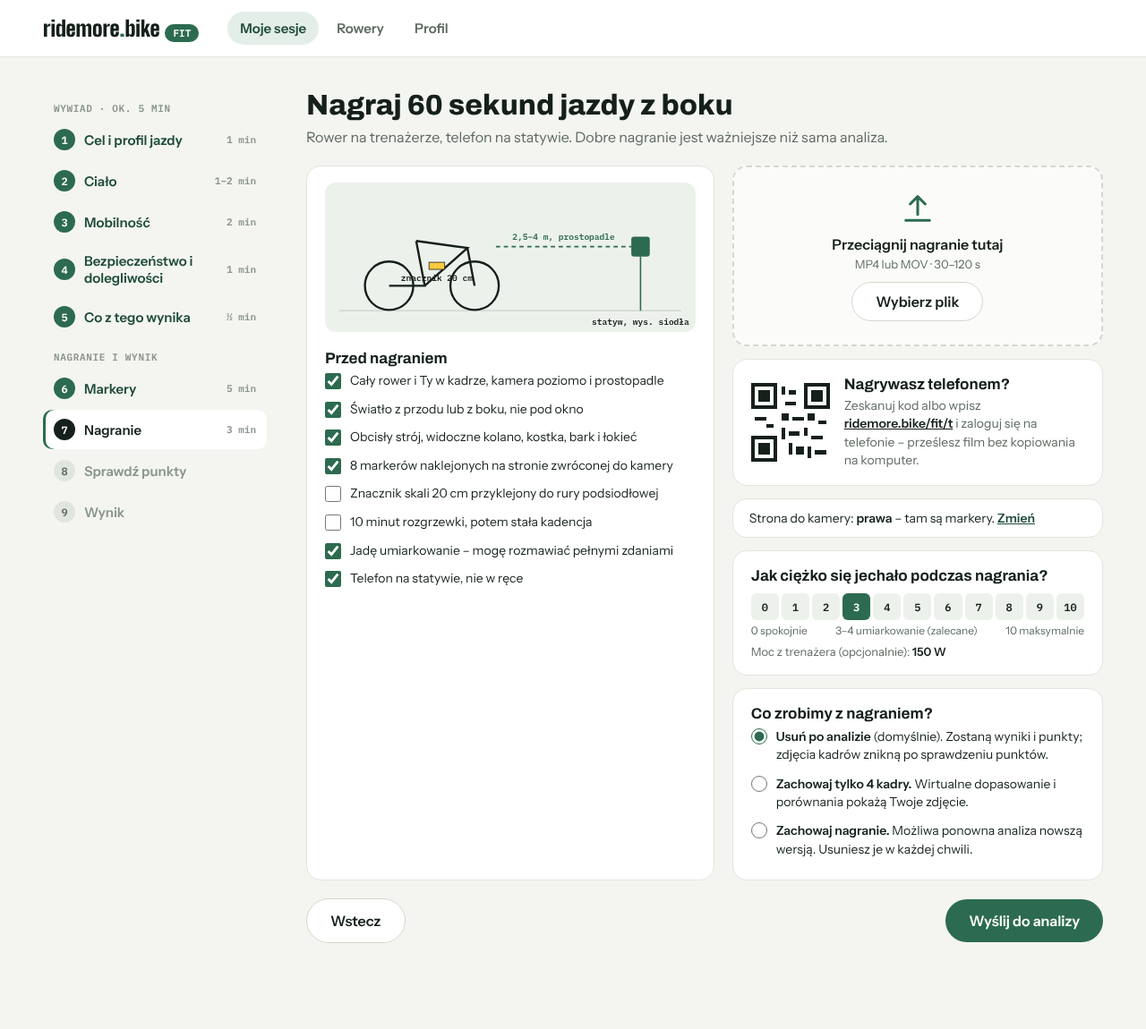
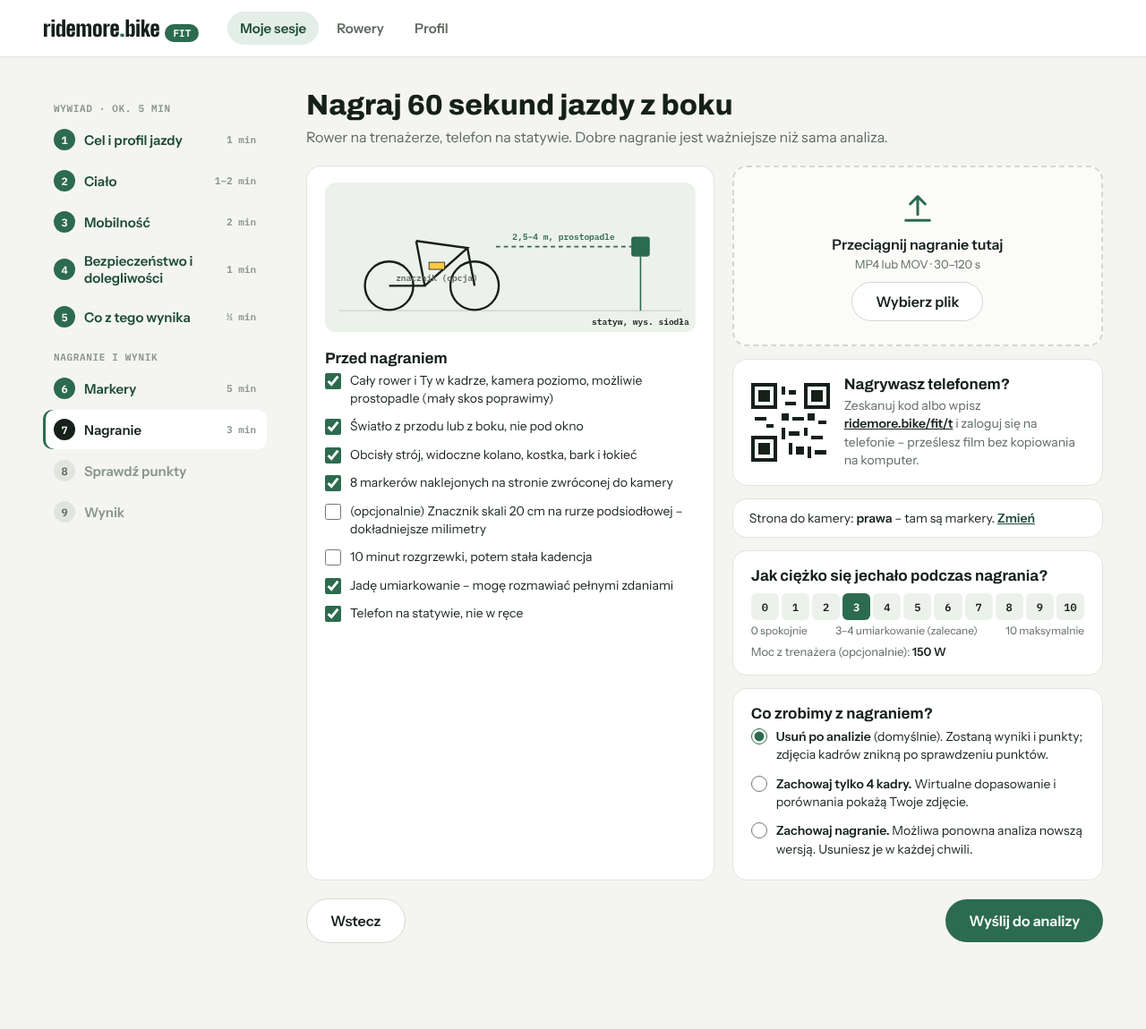
Znacznik skali opcjonalny: skala z korby, koła i ciała, korekta kamery ukośnej
- docs/06 rozdz. 4, docs/07 rozdz. 4.1: źródła skali (znacznik, korba, koło,
  ciało, korba domyślna) z porównaniem; prostowanie perspektywy z elips toru
  pedału i kół; progi odchylenia kamery 15°/25°
- docs/05, 09, 10, 11, 12, 16, 01, 03, 18 (ADR-28): pola, reguła KOPS,
  pewność, kontrakt, baza, testy i badanie V1.1
- makiety S07, S07b, S08, S02q: korba i opona zamiast obowiązkowego znacznika

Claude-Session: https://claude.ai/code/session_01QWhHeddHynfEwZRDfoPh26

Changed region(s): [[0.2812, 0.3652, 0.5938, 0.6087], [0.5312, 0.3652, 0.5625, 0.3957], [0.375, 0.2435, 0.4062, 0.2739]]

diff --git a/docs/makiety/07b-markery-gotowe.html b/docs/makiety/07b-markery-gotowe.html
@@ -60,7 +60,7 @@ h1{font:800 32px Archivo,sans-serif;margin:0}h2{font:700 17px Archivo,sans-serif
       <h1 style="margin-top: 6px">Markery gotowe</h1>
       <p class="lead">Naklejone na <b>prawej</b> stronie – tę stronę ustaw do kamery. Możesz wrócić do każdego punktu.</p>
       <div style="display: grid; grid-template-columns: minmax(0, 1.4fr) minmax(0, 1fr); gap: 20px">
-        <div class="card" style="padding: 6px 20px"><div class="li"><span class="n" style="background:#2C6B4F;color:#fff">1</span><span>Biodro – krętarz większy</span><span style="font-size:13px;font-weight:600;color:#1F5537">✓ naklejony · <a href="07a-marker-krok.html">wróć</a></span></div><div class="li"><span class="n" style="background:#2C6B4F;color:#fff">2</span><span>Kolano – nadkłykieć boczny</span><span style="font-size:13px;font-weight:600;color:#1F5537">✓ naklejony · <a href="07a-marker-krok.html">wróć</a></span></div><div class="li"><span class="n" style="background:#2C6B4F;color:#fff">3</span><span>Kostka boczna</span><span style="font-size:13px;font-weight:600;color:#1F5537">✓ naklejony · <a href="07a-marker-krok.html">wróć</a></span></div><div class="li"><span class="n" style="background:#F0B41E;color:#fff">4</span><span>Pięta<br><span style='font-size:13px;color:#6B4E00'>pominięty – punkt wyznaczy model, z niższą pewnością</span></span><span style="font-size:13px;font-weight:600;color:#6B4E00">pominięty · <a href="07a-marker-krok.html">wróć</a></span></div><div class="li"><span class="n" style="background:#2C6B4F;color:#fff">5</span><span>Stopa – głowa V kości śródstopia</span><span style="font-size:13px;font-weight:600;color:#1F5537">✓ naklejony · <a href="07a-marker-krok.html">wróć</a></span></div><div class="li"><span class="n" style="background:#2C6B4F;color:#fff">6</span><span>Bark – wyrostek barkowy</span><span style="font-size:13px;font-weight:600;color:#1F5537">✓ naklejony · <a href="07a-marker-krok.html">wróć</a></span></div><div class="li"><span class="n" style="background:#2C6B4F;color:#fff">7</span><span>Łokieć – nadkłykieć boczny</span><span style="font-size:13px;font-weight:600;color:#1F5537">✓ naklejony · <a href="07a-marker-krok.html">wróć</a></span></div><div class="li"><span class="n" style="background:#2C6B4F;color:#fff">8</span><span>Nadgarstek – wyrostek rylcowaty</span><span style="font-size:13px;font-weight:600;color:#1F5537">✓ naklejony · <a href="07a-marker-krok.html">wróć</a></span></div><div class="li"><span class="n" style="background:#2C6B4F;color:#fff">S</span><span>Znacznik skali 20 cm</span><span style="font-size:13px;font-weight:600;color:#1F5537">✓ naklejony · <a href="07a-marker-krok.html">wróć</a></span></div></div>
+        <div class="card" style="padding: 6px 20px"><div class="li"><span class="n" style="background:#2C6B4F;color:#fff">1</span><span>Biodro – krętarz większy</span><span style="font-size:13px;font-weight:600;color:#1F5537">✓ naklejony · <a href="07a-marker-krok.html">wróć</a></span></div><div class="li"><span class="n" style="background:#2C6B4F;color:#fff">2</span><span>Kolano – nadkłykieć boczny</span><span style="font-size:13px;font-weight:600;color:#1F5537">✓ naklejony · <a href="07a-marker-krok.html">wróć</a></span></div><div class="li"><span class="n" style="background:#2C6B4F;color:#fff">3</span><span>Kostka boczna</span><span style="font-size:13px;font-weight:600;color:#1F5537">✓ naklejony · <a href="07a-marker-krok.html">wróć</a></span></div><div class="li"><span class="n" style="background:#F0B41E;color:#fff">4</span><span>Pięta<br><span style='font-size:13px;color:#6B4E00'>pominięty – punkt wyznaczy model, z niższą pewnością</span></span><span style="font-size:13px;font-weight:600;color:#6B4E00">pominięty · <a href="07a-marker-krok.html">wróć</a></span></div><div class="li"><span class="n" style="background:#2C6B4F;color:#fff">5</span><span>Stopa – głowa V kości śródstopia</span><span style="font-size:13px;font-weight:600;color:#1F5537">✓ naklejony · <a href="07a-marker-krok.html">wróć</a></span></div><div class="li"><span class="n" style="background:#2C6B4F;color:#fff">6</span><span>Bark – wyrostek barkowy</span><span style="font-size:13px;font-weight:600;color:#1F5537">✓ naklejony · <a href="07a-marker-krok.html">wróć</a></span></div><div class="li"><span class="n" style="background:#2C6B4F;color:#fff">7</span><span>Łokieć – nadkłykieć boczny</span><span style="font-size:13px;font-weight:600;color:#1F5537">✓ naklejony · <a href="07a-marker-krok.html">wróć</a></span></div><div class="li"><span class="n" style="background:#2C6B4F;color:#fff">8</span><span>Nadgarstek – wyrostek rylcowaty</span><span style="font-size:13px;font-weight:600;color:#1F5537">✓ naklejony · <a href="07a-marker-krok.html">wróć</a></span></div><div class="li"><span class="n" style="background:#D3D8CE;color:#5E6A62">S</span><span>Znacznik skali 20 cm <span style="font-size:13px;color:#5E6A62">(opcjonalnie)</span><br><span style="font-size:13px;color:#5E6A62">skalę policzymy z korby 172,5 mm i koła 700 × 28</span></span><span style="font-size:13px;font-weight:600;color:#5E6A62">nie dodano · <a href="#">dodaj – dokładniejszy wynik</a></span></div></div>
         <div style="display: flex; flex-direction: column; gap: 14px">
           <div class="why"><b>Pominięty punkt?</b><br>Nic straconego – wyznaczymy go modelem pozy. Pewność pomiarów z tym punktem będzie niższa, a w „Sprawdź punkty” poprosimy Cię o jego kontrolę.</div>
           <div class="card" style="border: 1px dashed #8A948C; font-size: 14px; line-height: 1.5; color: #5E6A62"><b style="color: #15201A">Zdjęcie kontrolne</b> <span style="font: 600 11px 'IBM Plex Mono'; padding: 2px 8px; border-radius: 999px; background: #EDF1EC">WKRÓTCE</span><br>Zrobisz zdjęcie z boku, a my sprawdzimy rozmieszczenie markerów przed nagraniem.</div>

diff --git a/docs/makiety/07-markery.html b/docs/makiety/07-markery.html
@@ -7,7 +7,7 @@
 <link href="https://fonts.googleapis.com/css2?family=Archivo:wght@700;800&family=Big+Shoulders+Display:wght@900&family=Instrument+Sans:wght@400;600&family=IBM+Plex+Mono:wght@600&display=swap" rel="stylesheet">
 <style>
 body{margin:0}a{color:#1E4B38}a:hover{color:#15201A}
-.pg{width:1280px;height:940px;box-sizing:border-box;background:#F4F5F1;color:#15201A;font-family:'Instrument Sans',sans-serif;display:flex;flex-direction:column}
+.pg{width:1280px;height:1110px;box-sizing:border-box;background:#F4F5F1;color:#15201A;font-family:'Instrument Sans',sans-serif;display:flex;flex-direction:column}
 .hd{height:64px;box-sizing:border-box;padding:0 48px;display:flex;align-items:center;gap:32px;background:#fff;border-bottom:1px solid #E2E5DD;flex:none}
 .wm{font:900 24px 'Big Shoulders Display',sans-serif}.wm i{font-style:normal;color:#2C6B4F}
 .tag{font:600 11px 'IBM Plex Mono',monospace;background:#2C6B4F;color:#fff;padding:3px 9px;border-radius:999px;text-transform:uppercase;margin-left:6px}
@@ -60,7 +60,7 @@ h1{font:800 32px Archivo,sans-serif;margin:0}h2{font:700 17px Archivo,sans-serif
             <path d="M-333 -713 Q-213 -731 -88 -719 L-95 -703 Q-213 -713 -328 -697 Z" fill="#8A948C"></path>
             <rect x="-150" y="-330" width="44" height="120" rx="6" fill="#fff" stroke="#15201A" stroke-width="5" transform="rotate(16 -128 -270)"></rect>
             <circle cx="-136" cy="-312" r="9" fill="#15201A"></circle><circle cx="-118" cy="-232" r="9" fill="#15201A"></circle>
-            <text x="-95" y="-180" font-family="IBM Plex Mono" font-size="34" fill="#15201A">skala 20 cm</text>
+            <text x="-95" y="-180" font-family="IBM Plex Mono" font-size="34" fill="#15201A">skala (opcja)</text>
             <circle cx="319" cy="-1248" r="88" fill="none" stroke="#5E6A62" stroke-width="10"></circle>
             <path d="M-200 -765 L121 -494 L22 -25 L170 0 M22 -25 L-40 20 L170 0 M-200 -765 L248 -1134 L384 -861 L597 -688" stroke="#5E6A62" stroke-width="14" fill="none" stroke-linecap="round" stroke-linejoin="round"></path>
             <g font-family="IBM Plex Mono" font-size="40" font-weight="600" text-anchor="middle">
@@ -78,9 +78,10 @@ h1{font:800 32px Archivo,sans-serif;margin:0}h2{font:700 17px Archivo,sans-serif
         <div style="display: flex; flex-direction: column; gap: 12px">
           <div class="card"><h2>Jak nagrasz?</h2><div style="display: flex; gap: 8px; flex-wrap: wrap; margin-top: 10px"><button type="button" class="chip">Mam zestaw ridemore</button><button type="button" class="chip on">Zrobię je sam (szablon do druku)</button><button type="button" class="chip">Nagrywam bez markerów</button></div></div>
           <div class="card"><h2>Strona ciała do kamery</h2><div style="display: flex; gap: 8px; margin-top: 10px; align-items: center"><span class="chip on">prawa</span><span class="chip">lewa</span><span style="font-size: 13px; color: #5E6A62">prawa – tam dokucza kolano. Markery naklejasz po tej stronie.</span></div></div>
-          <div class="card"><h2>Przygotuj</h2><div style="display: flex; gap: 6px; flex-wrap: wrap; margin-top: 10px; font-size: 13px"><span style="padding: 5px 10px; border-radius: 999px; background: #EDF1EC">8 naklejek Ø 2–3 cm</span><span style="padding: 5px 10px; border-radius: 999px; background: #EDF1EC">znacznik skali 20 cm</span><span style="padding: 5px 10px; border-radius: 999px; background: #EDF1EC">obcisły strój</span><span style="padding: 5px 10px; border-radius: 999px; background: #EDF1EC">rower na trenażerze</span><span style="padding: 5px 10px; border-radius: 999px; background: #EDF1EC">pomocnik – przy biodrze i barku</span></div></div>
+          <div class="card"><h2>Twój rower <span style="font: 400 13px 'Instrument Sans'; color: #5E6A62">– opcjonalnie, dla dokładnych milimetrów</span></h2><div style="display: flex; gap: 10px; margin-top: 10px; align-items: center; font-size: 14px; flex-wrap: wrap"><span>Długość korby (nadruk na korbie):</span><span class="chip on">172,5 mm</span><span>Opona:</span><span class="chip on">700 × 28</span><span style="color: #5E6A62">Znacznik skali niepotrzebny – zmierzymy z korby i koła.</span></div></div>
+          <div class="card"><h2>Przygotuj</h2><div style="display: flex; gap: 6px; flex-wrap: wrap; margin-top: 10px; font-size: 13px"><span style="padding: 5px 10px; border-radius: 999px; background: #EDF1EC">8 naklejek Ø 2–3 cm</span><span style="padding: 5px 10px; border-radius: 999px; background: #EDF1EC">obcisły strój</span><span style="padding: 5px 10px; border-radius: 999px; background: #EDF1EC">rower na trenażerze</span><span style="padding: 5px 10px; border-radius: 999px; background: #EDF1EC">pomocnik – przy biodrze i barku</span></div></div>
           <div class="card" style="background: #EDF1EC; border: 0; font-size: 14px; line-height: 1.55">
-            <b>Jak to przebiega (ok. 5 min):</b> poprowadzimy Cię po kolei przez 8 punktów – przy każdym pokażemy, w jakiej pozycji usiąść, jak znaleźć miejsce dotykiem i czego unikać. Na końcu znacznik skali i podsumowanie. Punkt, którego nie znajdziesz, możesz pominąć.
+            <b>Jak to przebiega (ok. 5 min):</b> poprowadzimy Cię po kolei przez 8 punktów – przy każdym pokażemy, w jakiej pozycji usiąść, jak znaleźć miejsce dotykiem i czego unikać. Na końcu podsumowanie; znacznik skali jest opcjonalny. Punkt, którego nie znajdziesz, możesz pominąć.
           </div>
           <div style="font-size: 13.5px; color: #5E6A62">Przy rowerze masz telefon? <a href="08m-telefon.html" style="font-weight: 600">Otwórz kreator na telefonie</a> (kod QR w kroku „Nagranie”).</div>
         </div>

diff --git a/docs/makiety/08-nagranie.html b/docs/makiety/08-nagranie.html
@@ -60,14 +60,14 @@ h1{font:800 32px Archivo,sans-serif;margin:0}h2{font:700 17px Archivo,sans-serif
             <rect x="430" y="76" width="26" height="28" rx="4" fill="#2C6B4F"></rect><line x1="443" y1="104" x2="443" y2="180" stroke="#2C6B4F" stroke-width="2"></line>
             <text x="335" y="80" text-anchor="middle" fill="#2C6B4F">2,5–4 m, prostopadle</text>
             <text x="443" y="200" text-anchor="middle" fill="#15201A">statyw, wys. siodła</text>
-            <text x="157" y="138" text-anchor="middle" fill="#15201A">znacznik 20 cm</text>
+            <text x="157" y="138" text-anchor="middle" fill="#5E6A62">znacznik (opcja)</text>
           </svg>
           <h2 style="margin-top: 16px">Przed nagraniem</h2>
-          <label class="ck"><input type="checkbox" checked> Cały rower i Ty w kadrze, kamera poziomo i prostopadle</label>
+          <label class="ck"><input type="checkbox" checked> Cały rower i Ty w kadrze, kamera poziomo, możliwie prostopadle (mały skos poprawimy)</label>
           <label class="ck"><input type="checkbox" checked> Światło z przodu lub z boku, nie pod okno</label>
           <label class="ck"><input type="checkbox" checked> Obcisły strój, widoczne kolano, kostka, bark i łokieć</label>
           <label class="ck"><input type="checkbox" checked> 8 markerów naklejonych na stronie zwróconej do kamery</label>
-          <label class="ck"><input type="checkbox"> Znacznik skali 20 cm przyklejony do rury podsiodłowej</label>
+          <label class="ck"><input type="checkbox"> (opcjonalnie) Znacznik skali 20 cm na rurze podsiodłowej – dokładniejsze milimetry</label>
           <label class="ck"><input type="checkbox"> 10 minut rozgrzewki, potem stała kadencja</label>
           <label class="ck"><input type="checkbox" checked> Jadę umiarkowanie – mogę rozmawiać pełnymi zdaniami</label>
           <label class="ck"><input type="checkbox" checked> Telefon na statywie, nie w ręce</label>

diff --git a/docs/makiety/02q-szybki-start.html b/docs/makiety/02q-szybki-start.html
@@ -69,8 +69,8 @@ h1{font:800 32px Archivo,sans-serif;margin:0}h2{font:700 18px Archivo,sans-serif
             </div>
           </div>
           <div class="card">
-            <h2>Wzrost i długość nogi <span style="font: 400 13px 'Instrument Sans'; color: #5E6A62">– jeśli nie masz znacznika skali</span></h2>
-            <div style="display: flex; gap: 10px; margin-top: 12px; font-size: 14px; align-items: center"><span class="chip">182 cm</span><span class="chip">86 cm</span><span style="color: #5E6A62">dzięki nim przeliczymy zalecenie na milimetry</span><a href="#" style="margin-left: auto; font-size: 14px">Pomiń</a></div>
+            <h2>Wzrost, noga i korba <span style="font: 400 13px 'Instrument Sans'; color: #5E6A62">– do przeliczenia na milimetry</span></h2>
+            <div style="display: flex; gap: 10px; margin-top: 12px; font-size: 14px; align-items: center"><span class="chip">182 cm</span><span class="chip">86 cm</span><span class="chip">korba 172,5 mm</span><span style="color: #5E6A62">wystarczy jedno</span><a href="#" style="margin-left: auto; font-size: 14px">Pomiń</a></div>
           </div>
         </div>
         <aside class="why" style="align-self: start"><b>Co tracisz w szybkim starcie?</b><br>Nie uwzględnimy ruchomości ani szczegółów dolegliwości, więc pewność zaleceń będzie o jeden poziom niższa. Pytania bezpieczeństwa są zawsze obowiązkowe.</aside>

diff --git a/docs/06-nagranie-i-markery.md b/docs/06-nagranie-i-markery.md
@@ -5,7 +5,7 @@
 | Element | Wymaganie | Dlaczego |
 |---|---|---|
 | Rower | na trenażerze, ustawiony poziomo (przednie koło na podstawce, jeśli trenażer podnosi tył) | poziom odniesienia dla kątów |
-| Kamera | statyw, obiektyw na wysokości siodła, dokładnie prostopadle do płaszczyzny roweru, wypoziomowana | błąd perspektywy rośnie z odchyleniem od prostopadłej |
+| Kamera | statyw, obiektyw na wysokości siodła, zalecane prostopadle do płaszczyzny roweru, wypoziomowana; odchylenie do `calibration.yaw_warn_deg` (15°) korygowane automatycznie, do `calibration.yaw_max_deg` (25°) z ostrzeżeniem, powyżej – prośba o ponowne nagranie | błąd perspektywy rośnie z odchyleniem; korekta z elipsy toru pedału i kół (`docs/07`, rozdz. 4.1) |
 | Odległość | 2,5–4 m od roweru; cały rower i rowerzysta w kadrze z zapasem ~10% | zniekształcenia obiektywu przy brzegach kadru |
 | Orientacja | pozioma (landscape) | pełna sylwetka w kadrze |
 | Rozdzielczość / fps | min. 1280×720 przy 30 fps; zalecane 1920×1080 przy 60 fps | rozmycie ruchu stopy przy niskim fps |
@@ -25,7 +25,7 @@
 | `light` | Światło z przodu lub z boku, nie pod okno |
 | `clothing` | Obcisły strój, widoczne kolano, kostka, bark i łokieć |
 | `markers` | 8 markerów naklejonych na stronie zwróconej do kamery |
-| `scale` | Znacznik skali 20 cm przyklejony do rury podsiodłowej |
+| `scale` | (opcjonalnie) Znacznik skali 20 cm przyklejony do rury podsiodłowej – poprawia dokładność |
 | `warmup` | 10 minut rozgrzewki, potem stała kadencja |
 | `effort` | Jadę umiarkowanie – mogę rozmawiać pełnymi zdaniami |
 | `tripod` | Telefon na statywie, nie w ręce |
@@ -75,9 +75,9 @@ Tryb `none`: analiza tylko modelem pozy; wszystkie punkty mają źródło `model
 ### 3.4 Kreator naklejania krok po kroku (S07)
 
 Kreator działa na komputerze i na telefonie (M01, kod QR) – przy rowerze zwykle jest telefon. Postęp zapisuje się
-w szkicu sesji. Kolejność: przygotowanie → 8 punktów → znacznik skali → podsumowanie.
+w szkicu sesji. Kolejność: przygotowanie → 8 punktów → znacznik skali (opcjonalny) → podsumowanie.
 
-**Przygotowanie (S07):** co potrzebne (8 naklejek, znacznik skali, obcisły strój, pomocnik – zalecany przy 1 i 6),
+**Przygotowanie (S07):** co potrzebne (8 naklejek, obcisły strój, pomocnik – zalecany przy 1 i 6; znacznik skali opcjonalnie), pytanie o długość korby (nadruk na korbie) i rozmiar opony – opcjonalne, ale dają znaną długość w kadrze,
 wybór `kit` / `diy` / `none` (`none` → od razu nagranie), **strona ciała** (`side` – wybierana tutaj, nie w S08;
 naklejamy na stronie zwróconej do kamery), czas ok. 5 min.
 
@@ -95,25 +95,39 @@ z niższą pewnością, zapis `markers_skipped`) / „Wstecz”.
 | 6 | Bark – wyrostek barkowy | dłonie na kierownicy w zwykłym chwycie | przesuwaj palce wzdłuż obojczyka na zewnątrz aż do kostnego „daszka”; naklej na jego bocznej krawędzi | na mięśniu poniżej barku |
 | 7 | Łokieć – nadkłykieć boczny | jw., łokieć lekko zgięty | kostna wypukłość po zewnętrznej stronie łokcia | na mięśniu przedramienia |
 | 8 | Nadgarstek – wyrostek rylcowaty kości łokciowej | jw. | guzek na nadgarstku od strony małego palca | na luźnym mankiecie lub rękawiczce |
-| S | Znacznik skali | – | pasek płasko na rurze podsiodłowej, wzdłuż rury, kropki widoczne z boku | na zakrzywionej części ramy; przekrzywiony |
+| S | Znacznik skali (opcjonalny – „Pomiń” bez utraty zaleceń) | – | pasek płasko na rurze podsiodłowej, wzdłuż rury, kropki widoczne z boku | na zakrzywionej części ramy; przekrzywiony |
 
 **Podsumowanie (S07b):** lista punktów (naklejone / pominięte), przypomnienie o stronie, „Dalej: nagranie”.
 
 **Po MVP – zdjęcie kontrolne (D-18):** zdjęcie z boku przed nagraniem; serwer wykrywa markery i sprawdza kolejność
 i odległości (np. biodro–kolano względem długości nogi), wskazuje punkt do poprawy. Wymaga nowego typu zadania.
 
-## 4. Kalibracja
+## 4. Kalibracja (ADR-28: znacznik skali opcjonalny)
 
-| Element | Metoda | Wynik |
-|---|---|---|
-| Skala | odległość w pikselach między `scale_a` i `scale_b` / `scale_marker_mm` | `scale_px_per_mm` |
-| Poziom | linia podłogi (wykrywanie linii) lub linia osi kół; fallback: założenie poziomej kamery + ostrzeżenie `W_TILT_UNCERTAIN` | `camera_tilt_deg` |
-| Ograniczenie | skala obowiązuje tylko w płaszczyźnie znacznika; ciało rowerzysty jest ~10–15 cm bliżej kamery niż rama → błąd skali kilka % | komunikat w szczegółach |
+**Kąty nie wymagają skali** – statusy regulacji i kierunek zaleceń liczą się zawsze. Skala jest potrzebna tylko do
+wartości w mm (kolano względem pedału, ruch miednicy, wielkość zmiany). Źródła skali w kolejności pewności:
 
-Brak znacznika skali → wartości w mm (KOPS, ruch miednicy, warianty w mm) liczone ze skali z wymiarów ciała:
-długość nogi (`body.inseam_cm`), wzrost i rozpiętość ramion przez proporcje segmentów (wzajemna kontrola –
-rozbieżność > 8% → ostrzeżenie), oznaczone jako mniej pewne (`W_SCALE_ESTIMATED`). Brak znacznika i wymiarów →
-tylko kąty i kierunek zmiany (`W_NO_SCALE`, `docs/10`, rozdz. 7). Dane roweru nie są potrzebne do skali.
+| Źródło (`scale_source`) | Znana długość | Jak mierzone | Dokładność (robocza, do V1.1) | Wysiłek użytkownika |
+|---|---|---|---|---|
+| `marker` | znacznik 200 mm | odległość kropek `scale_a`–`scale_b` | ok. 1–3% | przykleić pasek (opcjonalnie) |
+| `crank` | `crank_length_mm` podana przez użytkownika (nadruk na korbie) | promień okręgu dopasowanego do toru pedału (setki klatek) | ok. 1–2% | odczytać nadruk |
+| `wheel` | średnica zewnętrzna koła z rozmiaru opony (np. 700×28 → ok. 680 mm) | elipsa obrysu przedniego (lub tylnego) koła | ok. 1–2% | podać rozmiar opony |
+| `body` | wymiary z wywiadu (noga, wzrost, rozpiętość ramion) | długości segmentów z proporcji | ok. 3–5% | już w wywiadzie |
+| `crank_default` | typowa korba dla rozmiaru (172,5 mm) | jw. | ok. 3–4% | nic |
+| `none` | – | – | tylko kąty i kierunek | – |
+
+Zasady:
+- Serwer liczy skalę ze **wszystkich dostępnych** źródeł i porównuje je; wybiera najpewniejsze, a rozbieżność
+  > `calibration.scale_disagree_pct` (5%) daje `W_SCALE_SOURCES_DISAGREE` i obniża pewność wielkości zalecenia.
+- Znacznik skali, jeśli jest i jest czytelny, **zawsze** jest źródłem głównym i poprawia też korektę perspektywy;
+  nieczytelny znacznik nie przerywa analizy (`W_SCALE_MARKER_UNREADABLE`, przejście do kolejnego źródła).
+- Korba, koło i znacznik leżą w płaszczyźnie roweru; ciało jest ok. 10–15 cm bliżej kamery (różnica skali ok.
+  4–5% przy 3 m). Model koryguje to przesunięciem płaszczyzny ciała szacowanym z porównania skali `body`
+  z płaszczyzną roweru (gdy oba źródła dostępne), w przeciwnym razie stałą `calibration.body_plane_offset_mm` (120).
+- **Poziom:** linia podłogi lub osi kół; fallback – założenie poziomej kamery + `W_TILT_UNCERTAIN` → `camera_tilt_deg`.
+- **Kamera nie na wprost (odchylenie w poziomie, `camera_yaw_deg`):** okrąg pedału i koła widziane ukośnie są
+  elipsami; stosunek osi elipsy daje kąt odchylenia (`cos yaw ≈ b/a`), a serwer prostuje płaszczyznę roweru
+  (rozciągnięcie wzdłuż krótszej osi) przed pomiarami – szczegóły `docs/07`, rozdz. 4.1.
 
 ## 5. Plik wideo – walidacja
 

diff --git a/docs/07-analiza-obrazu.md b/docs/07-analiza-obrazu.md
@@ -72,8 +72,25 @@ Worker przenosi to do `fit_job.progress` i `heartbeat_at`.
      (przy 60 fps; skalowana ∝ 1/fps).
 6. Brak kandydata w bramce → marker „niewidoczny” w tej klatce (przyczyna: zasłonięcie, rozmycie).
 
-Znacznik skali: dwie ciemne kropki na jasnym pasku w obszarze rury podsiodłowej; szukane w pierwszych 30 s
-nagrania, mediana odległości z ≥ 30 klatek; odrzucenie, gdy zmienność > 2%.
+Znacznik skali (opcjonalny): dwie ciemne kropki na jasnym pasku w obszarze rury podsiodłowej; szukane w pierwszych
+30 s nagrania, mediana odległości z ≥ 30 klatek; zmienność > 2% → `W_SCALE_MARKER_UNREADABLE` i inne źródło skali.
+
+### 4.1 Skala i perspektywa bez znacznika (etap `calibrate`)
+
+1. **Okrąg pedału:** po śledzeniu (rozdz. 7) – dopasowanie elipsy do toru `mtp5`/osi pedału z ważnych cykli
+   (RANSAC + najmniejsze kwadraty). Środek = `bb`; półosie `a ≥ b`; kąt osi.
+2. **Koła:** detekcja elips obrysu opony (krawędzie + dopasowanie elipsy w obszarze przed i za `bb`, wielkość
+   zgodna z elipsą pedału); przednie koło preferowane (tylne bywa zdjęte przy trenażerze bezpośrednim).
+3. **Odchylenie kamery:** `camera_yaw_deg = acos(b/a)` z elipsy pedału, uśrednione z elipsami kół (zgodność
+   ± 3°). Prostowanie: przekształcenie afiniczne płaszczyzny roweru rozciągające obraz wzdłuż krótszej osi o `a/b`
+   (przybliżenie dla kamery w odległości ≥ 2,5 m; przy bliższej – pełna homografia z dwóch elips kół, gdy oba
+   widoczne). Wszystkie punkty i pomiary liczone po prostowaniu.
+4. **Skala:** `marker` → `crank` (promień = `a` po prostowaniu, długość z `crank_length_mm`) → `wheel` (średnica
+   z rozmiaru opony) → `body` → `crank_default`; porównanie źródeł i korekta płaszczyzny ciała (`docs/06`, rozdz. 4).
+5. **Progi:** `camera_yaw_deg` > `calibration.yaw_warn_deg` (15) → `W_CAMERA_OBLIQUE` (pewność −1 dla pomiarów
+   w mm); > `calibration.yaw_max_deg` (25) → regulacje `unknown` i prośba „Ustaw kamerę bardziej z boku”.
+Zapis w `result.json`: `calibration.scale_source`, `scale_sources` (wszystkie oszacowania), `camera_yaw_deg`,
+`yaw_source`, `rectified`.
 
 ## 5. Estymacja pozy (model)
 
@@ -160,7 +177,7 @@ Tryb `markers_mode = none`: tylko `model`/`interpolated`/`missing`.
 | `bad` | < 0,6 | < 60% próbek → wartość ukryta w interfejsie | – |
 | `na` | – | pomiar niemożliwy z tego nagrania (np. tor kolana z boku) | – |
 
-Ostrzeżenia (kody): `W_SCALE_ESTIMATED`, `W_NO_SCALE`, `W_TILT_UNCERTAIN`, `W_MARKER_OCCLUDED:{point}`, `W_LOW_CONFIDENCE:{point}`,
+Ostrzeżenia (kody): `W_SCALE_ESTIMATED`, `W_NO_SCALE`, `W_SCALE_SOURCES_DISAGREE`, `W_SCALE_MARKER_UNREADABLE`, `W_CAMERA_OBLIQUE`, `W_TILT_UNCERTAIN`, `W_MARKER_OCCLUDED:{point}`, `W_LOW_CONFIDENCE:{point}`,
 `W_FEW_CYCLES`, `W_CADENCE_UNSTABLE`, `W_LOW_FPS`, `W_VIDEO_TRIMMED`, `W_SEGMENT_MISMATCH:{segment}`,
 `W_GRIP_MISMATCH` (chwyt wykryty ≠ zadeklarowany), `W_CHECKLIST:{code}`, `W_HIGH_EFFORT` (`session.recording_rpe`
 ≥ `quality.high_effort_rpe`, C-10). Komunikaty dla użytkownika: `docs/11`, rozdz. 7.
@@ -213,6 +230,10 @@ Dla faz 0° (`tdc`), 90° (`p90`), 180° (`bdc`), 270° (`p270`):
 | `keyframes.phase_tolerance_deg` | 4 | dobór kadru |
 | `keyframes.jpeg_quality` / `keyframes.max_short_side` | 85 / 1080 | zapis kadru |
 | `quality.high_effort_rpe` | 7 | próg ostrzeżenia `W_HIGH_EFFORT` |
+| `calibration.yaw_warn_deg` / `calibration.yaw_max_deg` | 15 / 25 | odchylenie kamery: ostrzeżenie / brak oceny |
+| `calibration.scale_disagree_pct` | 5 | rozbieżność źródeł skali |
+| `calibration.body_plane_offset_mm` | 120 | domyślna odległość płaszczyzny ciała od płaszczyzny roweru |
+| `calibration.default_crank_mm` | `{"S":170,"M":172.5,"L":175,"*":172.5}` | korba domyślna wg rozmiaru ramy |
 | `metrics.knee_2d_offset_deg` | 0 | korekta kątów kolana 2D (C-21); 0, bo zakres `saddle_height` (Ferrer-Roca) także pochodzi z pomiaru 2D; zmiana tylko po badaniu walidacyjnym (`docs/16`, rozdz. 6) |
 
 | `metrics.validation_status` | wszystkie `unvalidated` | status walidacji każdego pomiaru osobno dla `markers_mode` (`kit`/`diy` = markery, `none`) – wynik badania V1.1 (`docs/16`, rozdz. 6.1) |

diff --git a/docs/09-model-dopasowania.md b/docs/09-model-dopasowania.md
@@ -38,10 +38,10 @@ Karta reguły (obowiązkowa dla każdej regulacji, w pliku modelu i w karcie mod
 | Element | `saddle_height` | `saddle_fore_aft` | `bar_reach` | `bar_height` |
 |---|---|---|---|---|
 | Wejścia | `knee_flex_bottom.med` (hip, knee, ankle) | `knee_over_pedal.at_p90` (knee, pedal, skala) | `elbow_angle.med` + kierunek `shoulder_angle.med` | `torso_angle.med` (hip, shoulder, poziom) |
-| Minimalna jakość | pomiar `good`, ≥ 20 cykli, `validation_status = validated` | jw. + `scale_source = marker` | jw. + chwyt zgodny z deklarowanym | jw. + poziom kamery wyznaczony |
+| Minimalna jakość | pomiar `good`, ≥ 20 cykli, `validation_status = validated` | jw. + skala ze znanej długości (`scale_source` ∈ `marker`, `crank`, `wheel`), `camera_yaw_deg` ≤ 15° | jw. + chwyt zgodny z deklarowanym | jw. + poziom kamery wyznaczony |
 | Wolno wydać zalecenie, gdy | wartość poza zielonym o więcej niż `min_margin` (max(2°, SD)); poza strefą sporną; RPE ≤ 6; brak blokady i `stop` | poza zielonym o > max(5 mm, SD) | poza zielonym o > max(3°, SD) i `shoulder_angle` wskazuje ten sam kierunek | poza zielonym o > max(3°, SD) |
 | Krok | 5 mm (`experimental`), ≤ 10 mm (`validated`) | 5 mm | 10 mm (mostki co 10 mm) lub klamkomanetki | 5–10 mm podkładek |
-| „Nie oceniono”, gdy | jakość < `good`, `W_SEGMENT_MISMATCH` udo/podudzie, < 20 cykli | `W_SCALE_ESTIMATED`, `W_TILT_UNCERTAIN`, tryb `none` | `W_GRIP_MISMATCH`, niska pewność `wrist`/`elbow` | `W_TILT_UNCERTAIN`, `W_GRIP_MISMATCH` |
+| „Nie oceniono”, gdy | jakość < `good`, `W_SEGMENT_MISMATCH` udo/podudzie, < 20 cykli | brak skali ze znanej długości, `W_CAMERA_OBLIQUE` > 15°, `W_TILT_UNCERTAIN`, tryb `none` | `W_GRIP_MISMATCH`, niska pewność `wrist`/`elbow` | `W_TILT_UNCERTAIN`, `W_GRIP_MISMATCH` |
 | Źródło / dowód | Ferrer-Roca 2012, Bini 2011 / `science` | praktyka (KOPS – punkt wyjścia) / `practice` | praktyka / `practice` | praktyka, `lbp_review_2017` / `practice` |
 | Kryterium walidacji reguły | pomiar: kryteria z `docs/16` rozdz. 6.1; przewidywanie: \|Δ przewidziana − Δ zmierzona\| ≤ 2° w ≥ 80% zmian; skutek: ocena fittera „zasadne” ≥ 80% i „gorzej” ≤ 10% w badaniu V4.1 | jw., ± 5 mm | jw., ± 3° | jw., ± 3° |
 | Status w v1 | `experimental` | `measure_only` | `measure_only` | `measure_only` |
@@ -214,8 +214,9 @@ Start: `high`. Każdy spełniony warunek obniża o jeden poziom (minimum `low`);
 | `conf.no_markers` | `markers_mode = none` | −1 |
 | `conf.near_boundary` | odległość wartości od najbliższej granicy zielonego < 2 × SD pomiaru | −1 |
 | `conf.evidence_assumption` | zakres regulacji ma poziom dowodu `assumption` | −1 |
-| `conf.no_scale` | `scale_source = none` (bez znacznika i wymiarów ciała) | −1 |
-| `conf.scale_estimated` | `W_SCALE_ESTIMATED` i regulacja mierzona w mm (`saddle_fore_aft`) | −1 |
+| `conf.no_scale` | `scale_source = none` (bez znacznika, korby, koła i wymiarów ciała) | −1 |
+| `conf.camera_oblique` | `W_CAMERA_OBLIQUE` i regulacja mierzona w mm | −1 |
+| `conf.scale_estimated` | `W_SCALE_ESTIMATED` lub `W_SCALE_SOURCES_DISAGREE` i regulacja mierzona w mm (`saddle_fore_aft`) lub wielkość zmiany | −1 |
 | `conf.basic_fit` | `fit_level = basic` | −1 |
 | `conf.high_effort` | `W_HIGH_EFFORT` (nagranie przy RPE ≥ 7) | −1 |
 | `conf.pelvis_rock_support` | „obniż siodło” i `pelvis_vertical.rom > signals.pelvis_rock_mm` (C-23) | +1 |

diff --git a/docs/16-testy-i-walidacja.md b/docs/16-testy-i-walidacja.md
@@ -25,6 +25,7 @@
 | Jakość | progi `docs/07`, rozdz. 9 – przypadki graniczne (0,849 vs 0,85) |
 | Model dopasowania | tabelaryczne: dla każdej regulacji wartości < zielony, w żółtym, w zielonym, > zielony; każdy modyfikator; blokady akcji (modyfikatory mobilności nigdy nie blokują); akceptacja; kolejność następnego kroku; `safety_level` `caution` (krok ≤ 5 mm) i `stop` (brak zaleceń); `fit_level = basic`; każda reguła pewności z `docs/09`, rozdz. 6.1 osobno i łącznie (minimum `low`, maksimum `high`); `effort` dla każdej akcji; porada o korbie i sygnał wahania miednicy na progach |
 | Reguły i plan | `measure_only` → brak zalecenia; `experimental` → krok 5 mm, pewność ≤ `medium`; pomiar `unvalidated` → brak zalecenia; wartość poza zielonym o mniej niż `min_margin` → brak akcji; strefa sporna → `near` bez akcji; koperta literatury przycina sumę modyfikatorów; łączenie przesunięć przez maksimum; pusty zakres → `unknown` + flaga; każdy warunek „nie oceniono” z kart reguł; ślad uzasadnienia kompletny; plan sekwencyjny: przykład z `docs/09` rozdz. 11 (pominięty mostek), odrzucenie kroku wypychającego inną regulację z `ok` do `out`, maks. 4 kroki |
+| Skala i perspektywa | syntetyczne nagranie z kamerą odchyloną o 10° i 20°: `camera_yaw_deg` ± 2°, kąt kolana po prostowaniu ± 1°; skala z okręgu pedału przy podanej korbie ± 1%, z koła ± 2%; nieczytelny znacznik → `W_SCALE_MARKER_UNREADABLE` + inne źródło; rozbieżność źródeł > 5% → `W_SCALE_SOURCES_DISAGREE`; yaw 30° → regulacje `unknown` |
 | Ścieżki i wersje | `--storage-root` + ścieżka spoza → `E_JOB_INVALID`; nieznana wersja główna → `E_SCHEMA_VERSION`; zapis atomowy `result.json` (przerwanie w trakcie nie zostawia pliku końcowego) |
 | Granice regulacji | z danymi: mostek 80 mm, potrzebne −20 mm → `tip.frame_size` (za duża); bez danych: potrzebne −35 mm → zalecenie „skróć o 35 mm” + `tip.frame_size`, −20 mm → samo zalecenie; brak danych → `missing_data`, pewność bez zmian |
 | Bez danych roweru | rower tylko z typem: analiza, statusy i wielkość zmiany siodła identyczne (± 1 mm) jak z pełną geometrią na nagraniu syntetycznym; przykład z `docs/10` rozdz. 3.1 (≈ 15 mm); skala `body` vs `marker` różnica ≤ 5%; `scale_source = none` → tylko kierunek i krok 5 mm; korba z promienia toru ± 5 mm |
@@ -127,6 +128,7 @@ Przed walidacją wszystkie pomiary mają `unvalidated`, więc żadna reguła nie
 
 | Badanie | Protokół | Kryterium (`docs/01`, rozdz. 7) |
 |---|---|---|
+| V1.1 Źródła skali i kamera ukośna | te same nagrania: skala z `marker`, `crank`, `wheel`, `body`, `crank_default`; kamera ustawiona pod kątem 0°, 10°, 20°, 30° do płaszczyzny roweru | różnica każdego źródła do znacznika; błąd kątów po prostowaniu ≤ kryteria rozdz. 6.1 do 15°; decyzja o progach `yaw_*` i czy znacznik zostaje tylko dla fitterów |
 | V1.1 Dokładność i powtarzalność pomiaru | rozdz. 6.1 (a)–(c), z markerami i bez | kryteria z tabeli rozdz. 6.1 dla każdego pomiaru i trybu |
 | V1.1 Nagrania domowe | ≥ 10 nagrań uczestników wg instrukcji S07–S08 | nieudane analizy ≤ 20%; przyczyny odrzuceń zrozumiałe dla uczestnika (ankieta) |
 | Markery vs bez markerów | te same nagrania analizowane w trybie `none` | różnica raportowana; komunikat jakości w trybie `none` dostosowany |

diff --git a/docs/11-kontrakt-danych.md b/docs/11-kontrakt-danych.md
@@ -54,7 +54,7 @@ względem `--storage-root` (`docs/07`, rozdz. 1).
 }
 ```
 
-`calibration.scale_source`: `marker` · `body` · `none` (`docs/10`, rozdz. 7). Sekcje `bike.geometry` i pola `bike.setup` są opcjonalne (`null` = nieznane); wymagany jest tylko `bike.type`.
+`calibration.scale_source`: `marker` · `crank` · `wheel` · `body` · `crank_default` · `none`; dodatkowo `scale_sources` (wszystkie oszacowania px/mm), `camera_yaw_deg`, `rectified` (`docs/10`, rozdz. 7). Sekcje `bike.geometry` i pola `bike.setup` są opcjonalne (`null` = nieznane); wymagany jest tylko `bike.type`.
 
 Typy `correct`, `refit`, `simulate` – te same sekcje `rider`, `bike`, `fit` oraz:
 
@@ -228,7 +228,7 @@ Pomiary: `docs/08`, rozdz. 3. Regulacje i modyfikatory: `docs/09`, rozdz. 1 i 5.
 | `E_POSE_COVERAGE` | nie | Nie widać całej sylwetki w {pct}% klatek. Najczęściej: nagranie pod światło lub ktoś/coś zasłania. |
 | `E_TRACKING_LOST` | nie | Zgubiliśmy punkty ciała w zbyt wielu klatkach. Sprawdź, czy cała noga i ręka są w kadrze. |
 | `E_CYCLES_TOO_FEW` | nie | Za mało równych obrotów korby. Nagraj min. 30 s w stałej kadencji. |
-| `E_SCALE_INVALID` | nie | Znacznik skali jest nieczytelny. Przyklej go płasko na rurze podsiodłowej. |
+| (usunięty) `E_SCALE_INVALID` | – | nieczytelny znacznik nie jest już błędem – ostrzeżenie `W_SCALE_MARKER_UNREADABLE` i inne źródło skali (ADR-28) |
 | `E_TIMEOUT` | tak | Analiza trwała za długo. Spróbujemy ponownie automatycznie. |
 | `E_MEMORY` | tak | Zabrakło zasobów serwera. Spróbujemy ponownie automatycznie. |
 | `E_JOB_INVALID` | nie | Wystąpił błąd analizy (kod zdarzenia {id}). Zgłosiliśmy go – nie musisz nic robić. |

diff --git a/docs/03-ekrany-i-przeplyw.md b/docs/03-ekrany-i-przeplyw.md
@@ -143,13 +143,15 @@ Akcja główna: „Dalej: markery i nagranie”.
 
 Kreator (`docs/06`, rozdz. 3.4), dostępny też na telefonie (M01, kod QR):
 - **S07 Przygotowanie:** co potrzebne (8 naklejek, znacznik skali, obcisły strój, pomocnik), czas ok. 5 min,
-  wybór „Mam zestaw ridemore” / „Zrobię je sam” (szablon do druku) / „Nagrywam bez markerów” (→ S08), **strona
+  wybór „Mam zestaw ridemore” / „Zrobię je sam” (szablon do druku) / „Nagrywam bez markerów” (→ S08), pytania
+  opcjonalne „Długość korby (nadruk na korbie)” i „Rozmiar opony” – dają znaną długość w kadrze (ADR-28), **strona
   ciała do kamery** (wstępnie strona głównej dolegliwości, jeśli jednostronna – C-22), mapa 8 punktów na sylwetce.
   Zapis: `fit_session.markers_mode`, `side`.
 - **S07a Punkt „N z 8”:** zbliżenie miejsca na sylwetce, pozycja przy naklejaniu, jak znaleźć dotykiem, typowy
   błąd z rysunkiem „tak / nie tak”, przyciski „Naklejone”, „Nie mogę znaleźć – pomiń”, „Wstecz”; pasek postępu
   z 9 kropkami (8 punktów + znacznik skali).
 - **S07b Podsumowanie:** lista punktów (naklejone / pominięte → „punkt wyznaczy model, z niższą pewnością”),
+  znacznik skali jako opcja („Dodaj znacznik skali – dokładniejszy wynik”),
   strona ciała, „Wróć do punktu”, „Dalej: nagranie”. Po MVP: „Zrób zdjęcie kontrolne” (D-18).
 
 ## 10. S08 · Nagranie

diff --git a/docs/10-model-sylwetki-i-symulacja.md b/docs/10-model-sylwetki-i-symulacja.md
@@ -142,9 +142,14 @@ Parametry niemodelowane (tylko informacja w UI): `saddle_tilt_deg`, `bar_width_m
 
 | Źródło skali (`scale_source`) | Dokładność | Skutek |
 |---|---|---|
-| `marker` – znacznik 20 cm | ok. 1–3% | pełne wartości w mm |
+| `marker` – znacznik 20 cm (opcjonalny) | ok. 1–3% | pełne wartości w mm |
+| `crank` – podana długość korby, promień okręgu pedału | ok. 1–2% | pełne wartości w mm |
+| `wheel` – średnica koła z rozmiaru opony | ok. 1–2% | pełne wartości w mm |
+| `crank_default` – typowa korba | ok. 3–4% | wartości w mm, `W_SCALE_ESTIMATED` |
 | `body` – długość nogi, wzrost, rozpiętość ramion (proporcje segmentów, np. udo ≈ 0,245 wzrostu; kontrola wzajemna wymiarów) | ok. 3–5% | wartości w mm, `W_SCALE_ESTIMATED`; błąd 5% przy zmianie 15 mm ≈ 0,7 mm |
-| `none` – brak obu | – | tylko kąty i kierunek; zalecenie = stały krok 5 mm; pomiary w mm ukryte (`W_NO_SCALE`) |
+| `none` – brak wszystkich | – | tylko kąty i kierunek; zalecenie = stały krok 5 mm; pomiary w mm ukryte (`W_NO_SCALE`) |
+
+Pełny opis źródeł, ich porównania i korekty kamery ustawionej ukośnie: `docs/06` rozdz. 4 i `docs/07` rozdz. 4.1.
 
 Bez danych roweru (`sim.default_*` z rozdz. 3.1) zalecenie jest pełne: parametr, kierunek i wielkość (np. „skróć
 mostek o 20 mm”) – liczone z ciała, nie z roweru, więc pewność nie jest obniżana. Gdy potrzebna zmiana przekracza

diff --git a/docs/18-decyzje-i-otwarte-kwestie.md b/docs/18-decyzje-i-otwarte-kwestie.md
@@ -31,6 +31,7 @@
 | ADR-25 | Jedno aktywne zadanie typu na sesję (`active_key`), atomowy zapis wyniku, import w transakcji; Python ogranicza ścieżki do `--storage-root` | recenzja techniczna P6 i uwagi o kolejce; `docs/02` rozdz. 5.1, `docs/07` rozdz. 1 |
 | ADR-26 | Dane roweru opcjonalne (minimum: nazwa i typ); model podstawowy liczy zmiany z nagrania i wymiarów ciała; zalecenia i zapis zmian względne; skala: znacznik → wymiary ciała → brak (tylko kierunek) | decyzja właściciela; `docs/05`, `docs/10` rozdz. 3.1 i 7 |
 | ADR-27 | Nazwa dla użytkownika: „sesja fittingowa” (całość), „analiza” tylko dla przetwarzania nagrania; trasy `/fit/sesja/…`; kreatory krok po kroku dla pomiaru ciała (S03a) i markerów (S07–S07b) | decyzja właściciela |
+| ADR-28 | Znacznik skali opcjonalny (poprawia dokładność, gdy jest); skala z korby (podana długość), koła (rozmiar opony), wymiarów ciała lub korby domyślnej, z porównaniem źródeł; korekta kamery ustawionej ukośnie z elips toru pedału i kół | decyzja właściciela; praktyka aplikacji bez znacznika; `docs/06` rozdz. 4, `docs/07` rozdz. 4.1 |
 
 ## 2. Decyzje do podjęcia
 
